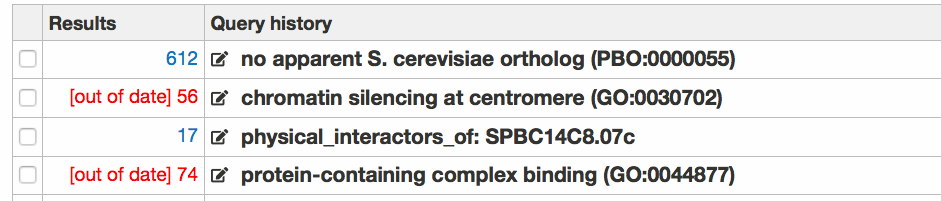
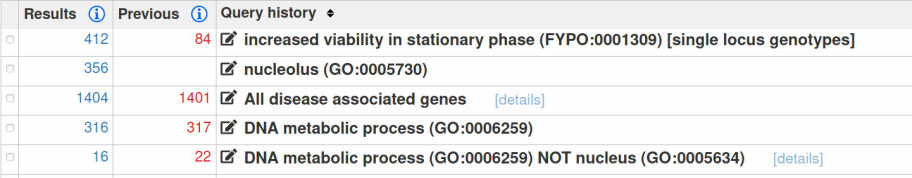
update adv search out-of-date result docn #1747

Changed region(s): [[0.0, 0.0, 1.0, 1.0]]

diff --git a/src/docs/documentation/advanced-search.md b/src/docs/documentation/advanced-search.md
@@ -50,8 +50,8 @@ its "Results" link.
 
 Query results can remain available in the history list for several
 days. If changes in annotation cause results to change since a query
-was last run, the entry in the history list will be labeled "out of
-date":
+was last run, an additional "Previous" column will be displayed in the
+history list, showing the out-of-date result count:
 
 ![advanced search page with out-of-date query](assets/advanced_search_out-of-date_result.png){width="400"}
 
